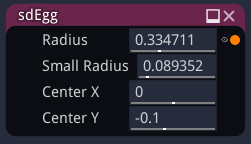
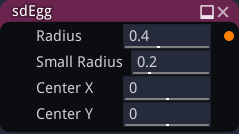
make sdegg stand up-right, small rad -> pointiness

diff --git a/material_maker/doc/node_simple_sdf_shapes_sdegg.rst b/material_maker/doc/node_simple_sdf_shapes_sdegg.rst
@@ -1,7 +1,7 @@
 sdEgg node
 ..........
 
-The **sdNGon** node generates a signed distance image for an egg.
+The **sdEgg** node generates a signed distance image for an egg.
 
 .. image:: images/node_simple_sdf_shapes_sdegg.png
 	:align: center
@@ -21,9 +21,9 @@ Parameters
 
 The **sdEgg** node accepts the following parameters:
 
-* Major **Radius** of the egg.
+* **Radius** of the egg.
 
-* **Small Radius** of the tip of the egg
+* **Pointiness** of the tip of the egg.
 
 * Position of the center along X and Y axis.
 
